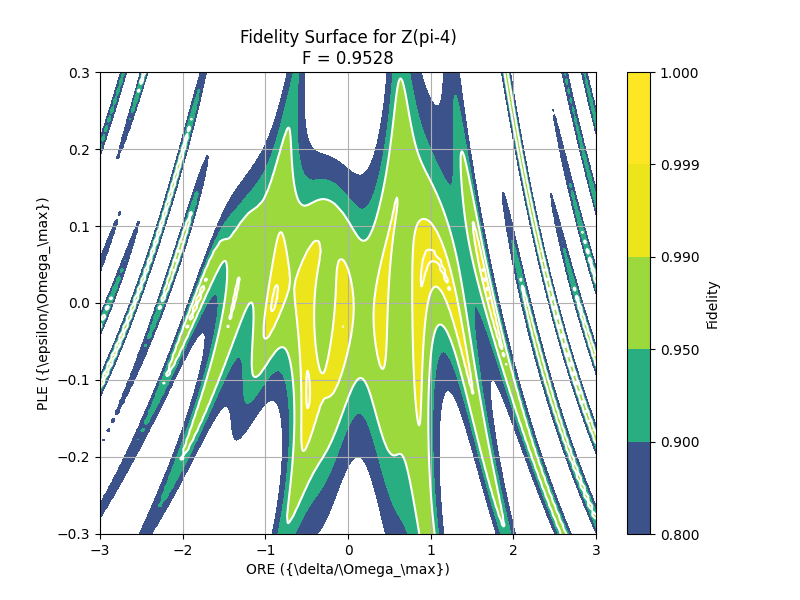
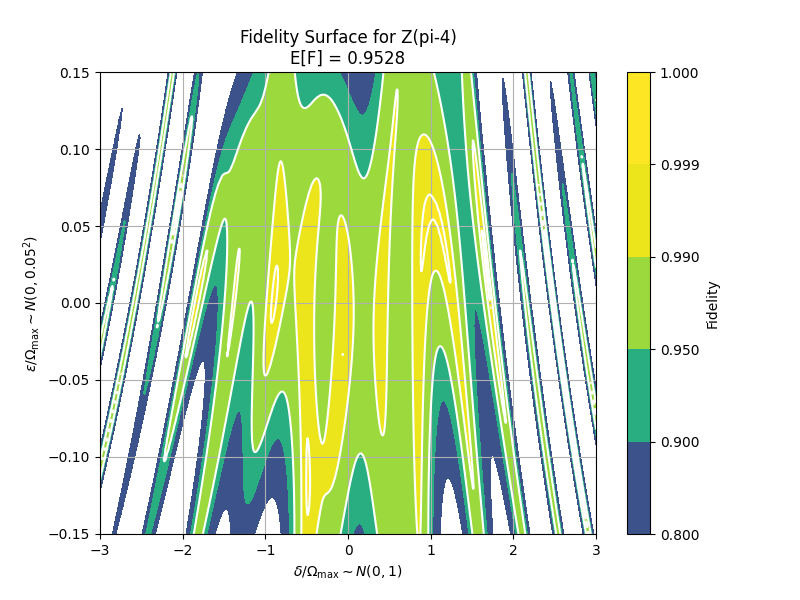
contour plot label updated

Changed region(s): [[0.0312, 0.06, 0.75, 0.9], [0.3125, 0.93, 0.5625, 0.96], [0.0625, 0.12, 0.0938, 0.15]]

diff --git a/visualize/single_qubit_visualization.py b/visualize/single_qubit_visualization.py
@@ -56,7 +56,7 @@ if __name__ == "__main__":
         
         # Create 2D grid of ORE and PLE
         ORE_vals = torch.linspace(-3, 3, 1000)
-        PLE_vals = torch.linspace(-0.3, 0.3, 50)
+        PLE_vals = torch.linspace(-0.15, 0.15, 50)
         ORE_grid, PLE_grid = torch.meshgrid(ORE_vals, PLE_vals, indexing="ij")
 
         # Flatten the grid for batch processing
@@ -86,9 +86,14 @@ if __name__ == "__main__":
         plt.contour(ORE_np, PLE_np, F_np, levels=[0.95, 0.99, 0.999], colors='white', linewidths=1.5)
 
         plt.colorbar(contour, label='Fidelity')
-        plt.xlabel(r"ORE ({\delta/\Omega_\max})")
-        plt.ylabel(r"PLE ({\epsilon/\Omega_\max})")
-        plt.title(f"Fidelity Surface for {target_name}\nF = {F.mean():.4f}")
+        plt.xlabel(r"$\delta / \Omega_{\max} \sim N(0, 1)$")
+        plt.ylabel(r"$\epsilon / \Omega_{\max} \sim N(0, 0.05^2)$")
+        plt.title(f"Fidelity Surface for {target_name}\nE[F] = {F.mean().item():.4f}")
+        # plt.suptitle(f"Fidelity Surface for {target_name}")
+        # plt.title(
+        #     fr"$\mathbb{{E}}_{{\sigma_\delta = 1,\ \sigma_\epsilon = 0.05}}[F] = {F.mean().item():.4f}$",
+        #     # fontsize=18
+        # )
         plt.grid(True)
         plt.show()
 
